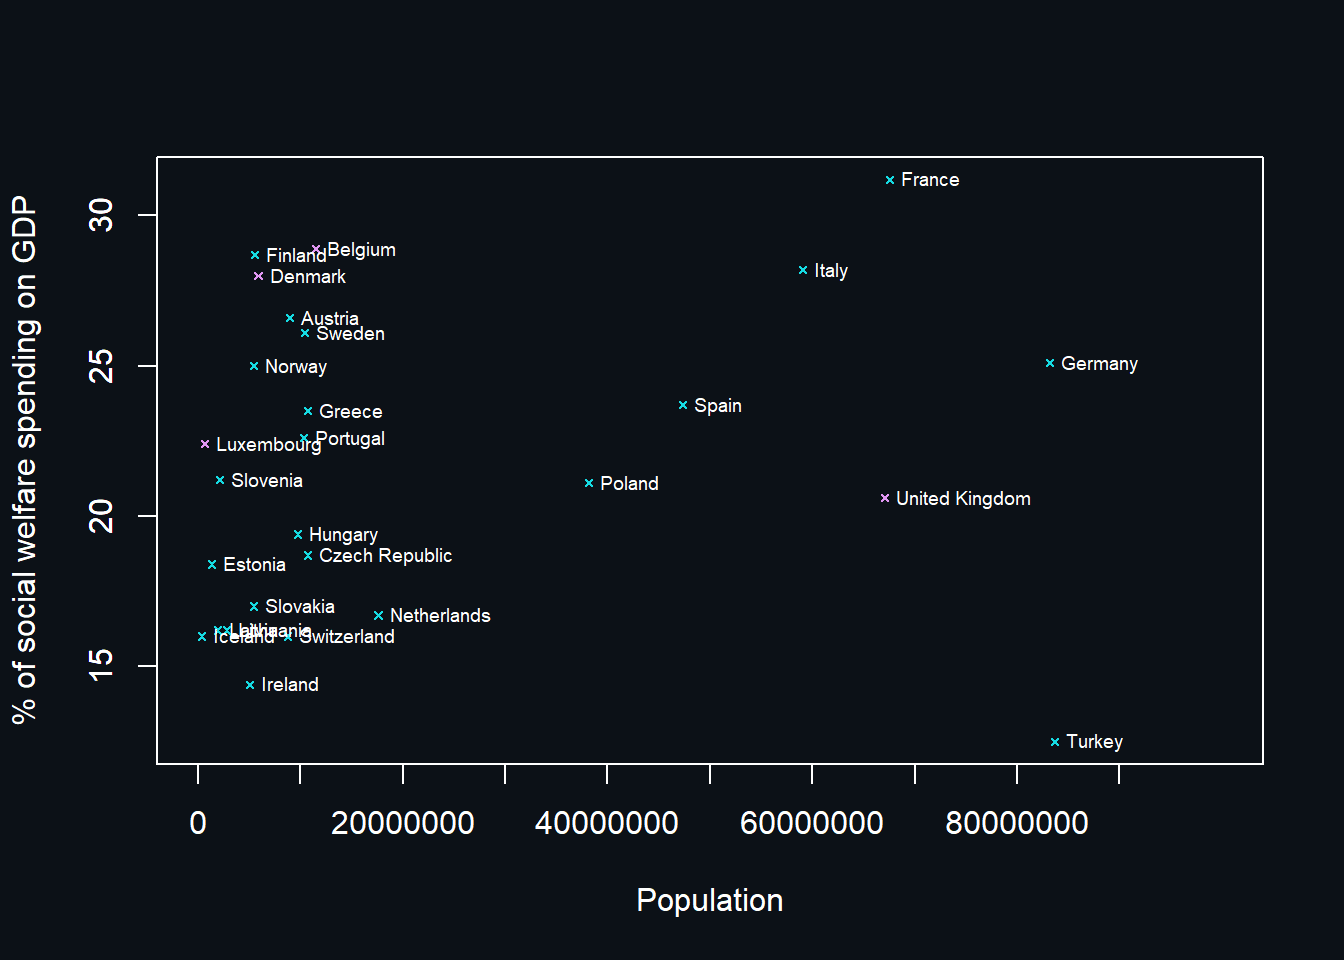
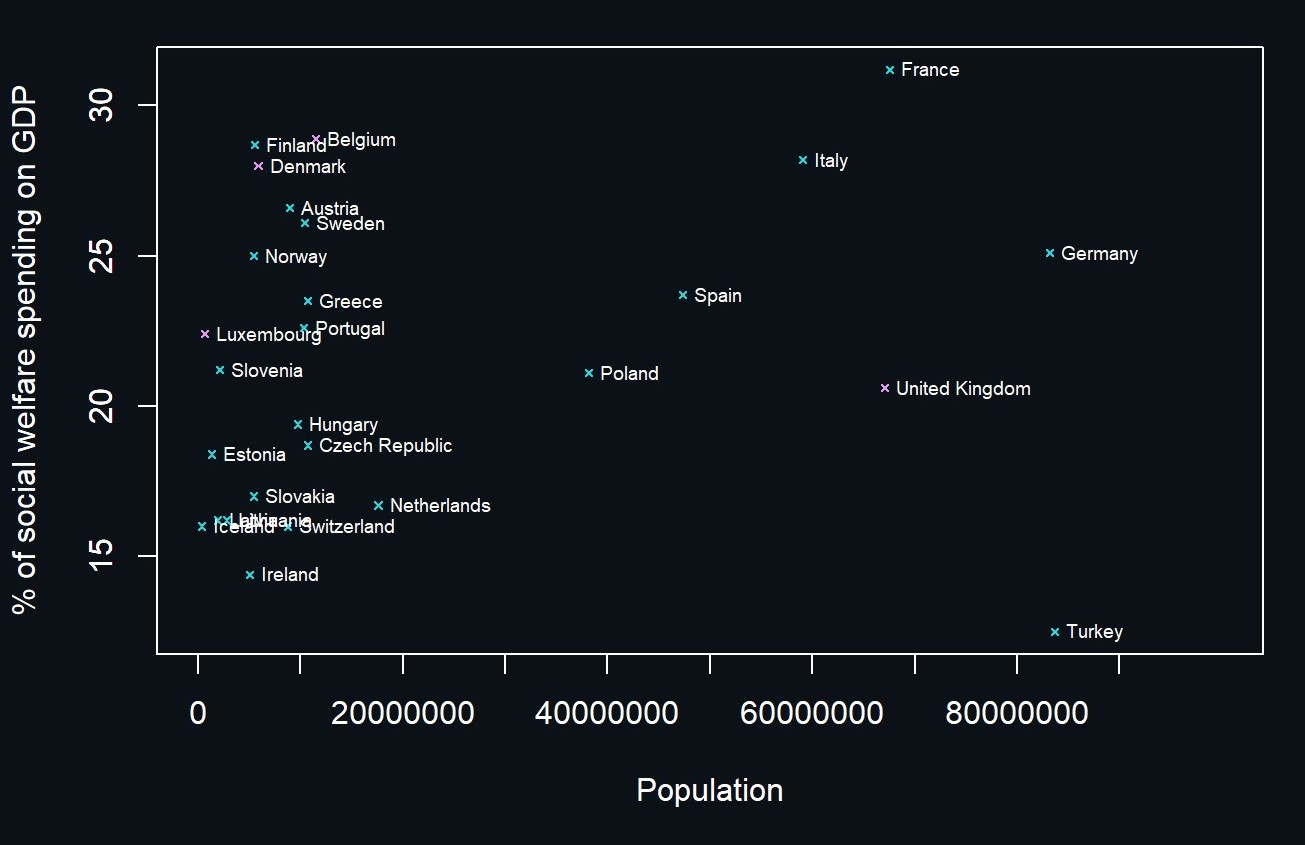
Error fixes on blog
- Image cropped
- Image width corrected
- Alignment for onpage links corrected

diff --git a/styles/style.css b/styles/style.css
@@ -42,7 +42,6 @@ h4 {
 
 img {
 	border-radius: 6px;
-	float: right;
 }
 
 a {
@@ -72,11 +71,13 @@ a:hover {
 	margin: 16px;
 	margin-left: 0px;
 	filter: drop-shadow(5px 5px 5px black);
+	float: right;
 }
 
 .profile {
 	margin: 2%;
 	filter: drop-shadow(5px 5px 5px black);
+	float: right;
 }
 
 .entry_banner {
@@ -112,7 +113,7 @@ a.entrylink {
 h2::before { 
   display: block; 
   content: " "; 
-  margin-top: -135px; 
+  margin-top: -125px; 
   height: 135px; 
   visibility: hidden; 
 }
@@ -163,7 +164,7 @@ h2::before {
 	padding: 0px;
 	filter: invert() opacity(.3);
 	width: 30px;
-  
+	float: right;
 }
 
 .linksymbol:hover {
